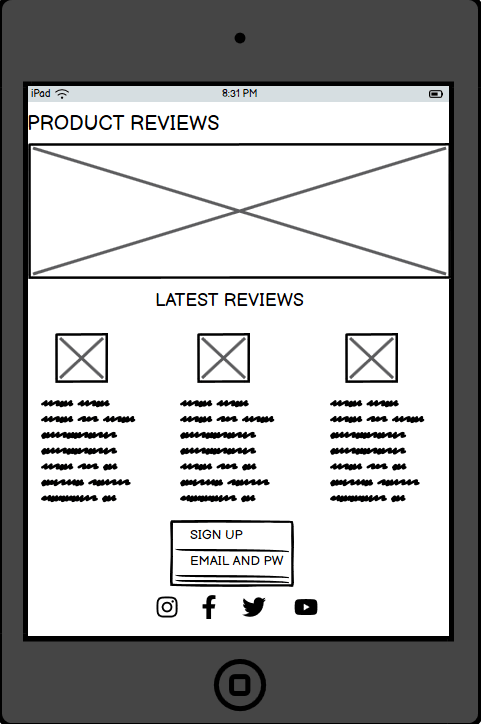
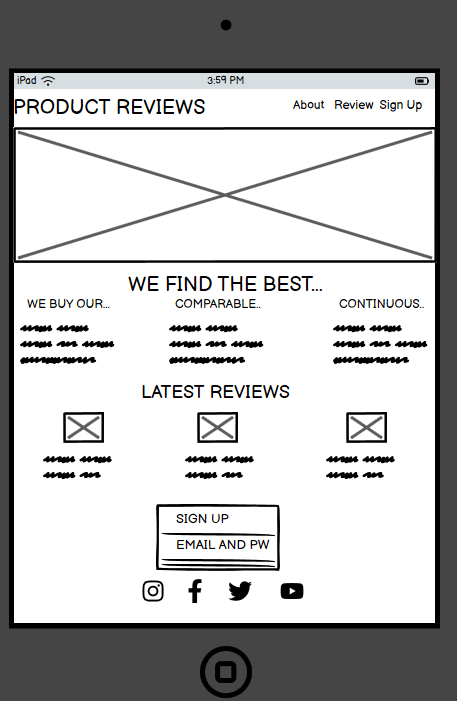
Add changes for Readme design section by changing the plan images and add about section details.
Add changes for Readme design section by changing the plan images and add about section details.

Changed region(s): [[0.0, 0.0, 1.0, 1.0], [0.4595, 0.03, 0.5208, 0.0599]]

diff --git a/README.md b/README.md
@@ -55,11 +55,12 @@ I added our social media links with social meedia icons just under the signup fo
 
 ## Design
 
-![wireframe-computer](https://github.com/onur-CK/pp1reviews/assets/118271710/12fca57f-c237-4b92-b7d5-d3565ff0797f)
+![wireframe-desktop](https://github.com/onur-CK/pp1reviews/assets/118271710/2e75eb10-768c-4333-a52e-1815a1ab47df)
 
-![Wireframe-tablet](https://github.com/onur-CK/pp1reviews/assets/118271710/dee04e97-491d-400d-97f4-baa34ac87ccc)
+![wireframe-tablet](https://github.com/onur-CK/pp1reviews/assets/118271710/3ee44c30-5d42-4b61-be6c-b0a35ec1198c)
 
-![Wireframe-mobilephone](https://github.com/onur-CK/pp1reviews/assets/118271710/80f16650-6c58-4fa8-ba1b-776fa32d3288)
+![wireframe-mobile](https://github.com/onur-CK/pp1reviews/assets/118271710/62aaa0fd-9cd9-4a49-a7e0-ea4d9387fef0)
+
 
 ## Testing
 
